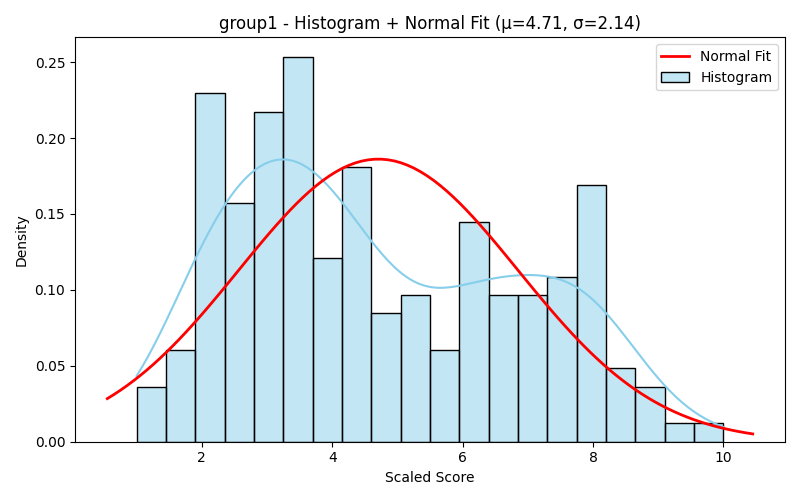
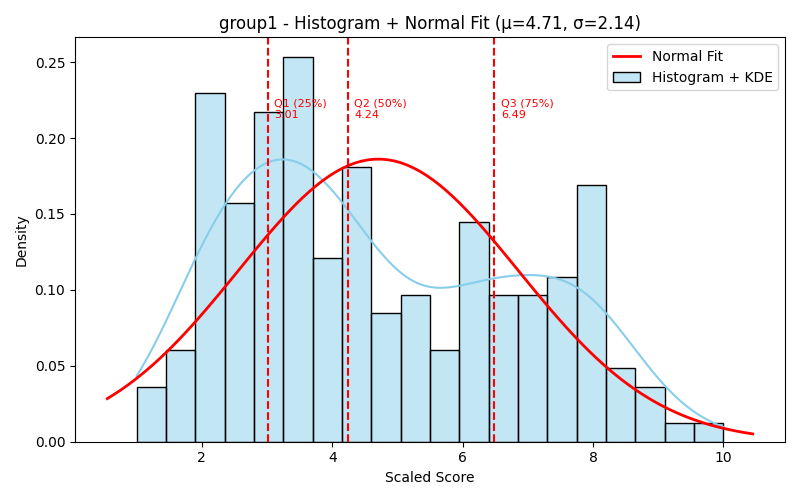
Add baseline comparison and overlay plots for AI Agent scores
Introduces scripts and outputs for comparing AI Agent scaled scores to Ratio 46 baseline across groups. Adds new CSVs with country-level zone assignments and baseline comparisons, summary tables for zone means, and overlay histogram plots with quartile regions. Updates visualization scripts to annotate histograms with quartile lines and labels for both AI Agent and Ratio 46 groups.

diff --git a/scripts/final/compare/compare_with_baseline.py b/scripts/final/compare/compare_with_baseline.py
@@ -1,0 +1,158 @@
+import pandas as pd
+import numpy as np
+import os
+import seaborn as sns
+from matplotlib import pyplot as plt
+from scipy.stats import norm
+
+# Đường dẫn đến file
+ratio_46_files = {
+    "group1": "/Users/minhtan/Documents/GitHub/SEBL-2025/data/final/ratio_46/scaled_score_for_4_part_ratio_country_group1.csv",
+    "group2": "/Users/minhtan/Documents/GitHub/SEBL-2025/data/final/ratio_46/scaled_score_for_4_part_ratio_country_group2.csv",
+    "group3": "/Users/minhtan/Documents/GitHub/SEBL-2025/data/final/ratio_46/scaled_score_for_4_part_ratio_country_group3.csv",
+    "group4": "/Users/minhtan/Documents/GitHub/SEBL-2025/data/final/ratio_46/scaled_score_for_4_part_ratio_country_group4.csv"
+}
+
+ai_agent_files = {
+    "group1": "/Users/minhtan/Documents/GitHub/SEBL-2025/data/final/ai_agent/scaled_score_for_6_part_ratio_country_group1.csv",
+    "group2": "/Users/minhtan/Documents/GitHub/SEBL-2025/data/final/ai_agent/scaled_score_for_6_part_ratio_country_group2.csv",
+    "group3": "/Users/minhtan/Documents/GitHub/SEBL-2025/data/final/ai_agent/scaled_score_for_6_part_ratio_country_group3.csv",
+    "group4": "/Users/minhtan/Documents/GitHub/SEBL-2025/data/final/ai_agent/scaled_score_for_6_part_ratio_country_group4.csv"
+}
+
+# Thư mục lưu biểu đồ overlay
+plot_dir = "/Users/minhtan/Documents/GitHub/SEBL-2025/output/compare/plots"
+os.makedirs(plot_dir, exist_ok=True)
+
+output_dir = "/Users/minhtan/Documents/GitHub/SEBL-2025/output/compare"
+os.makedirs(output_dir, exist_ok=True)
+
+# -----------------------------
+# Vẽ overlay từng group (hist + 2 đường + vùng bóng + quartiles + so sánh vùng)
+# -----------------------------
+for group in ratio_46_files.keys():
+    path_ratio = ratio_46_files[group]
+    path_ai = ai_agent_files[group]
+
+    if not os.path.exists(path_ratio) or not os.path.exists(path_ai):
+        print(f"[SKIP] Không tìm thấy dữ liệu cho {group}")
+        continue
+
+    df_ratio = pd.read_csv(path_ratio)
+    df_ai = pd.read_csv(path_ai)
+
+    if "scaled_score" not in df_ratio.columns or "scaled_score" not in df_ai.columns:
+        print(f"[SKIP] Thiếu cột scaled_score ở {group}")
+        continue
+
+    # Fit các phân phối chuẩn
+    mu_ai, std_ai = norm.fit(df_ai['scaled_score'])
+    mu_ratio, std_ratio = norm.fit(df_ratio['scaled_score'])
+
+    # Tạo trục x và các phân phối
+    x = np.linspace(0, 10, 500)
+    p_ai = norm.pdf(x, mu_ai, std_ai)
+    p_ratio = norm.pdf(x, mu_ratio, std_ratio)
+
+    # Các mốc phần tư từ RATIO_46 (baseline)
+    desc = df_ratio['scaled_score'].describe()
+    q25, q50, q75 = desc['25%'], desc['50%'], desc['75%']
+
+    # Phân vùng cho từng điểm
+    def get_zone(val):
+        if val < q25:
+            return "0-Q1"
+        elif val < q50:
+            return "Q1-Q2"
+        elif val < q75:
+            return "Q2-Q3"
+        else:
+            return "Q3-10"
+
+    df_ratio['zone'] = df_ratio['scaled_score'].apply(get_zone)
+    df_ai['zone'] = df_ai['scaled_score'].apply(get_zone)
+
+    # -----------------------------
+    # Gán vùng phân vị cho từng quốc gia trong AI Agent theo baseline
+    # -----------------------------
+    if 'splits' in df_ai.columns:
+        df_ai_filtered = df_ai[df_ai['splits'] == 6].copy()
+    else:
+        print(f"[WARNING] Không tìm thấy cột 'splits' trong AI Agent {group}, dùng toàn bộ.")
+        df_ai_filtered = df_ai.copy()
+
+    df_country_zone = df_ai_filtered[['country_code', 'scaled_score']].copy()
+    df_country_zone['zone'] = df_country_zone['scaled_score'].apply(get_zone)
+
+    # Xoá trùng lặp country_code nếu có
+    df_country_zone = df_country_zone.drop_duplicates(subset=['country_code'])
+
+    # Thêm cột baseline_mean_zone và position_vs_baseline cho từng quốc gia
+    zone_means = df_ratio.groupby('zone')['scaled_score'].mean().to_dict()
+
+    df_country_zone['baseline_mean_zone'] = df_country_zone['zone'].map(zone_means)
+    df_country_zone['position_vs_baseline'] = df_country_zone.apply(
+        lambda row: 'above' if row['scaled_score'] > row['baseline_mean_zone'] else 'below',
+        axis=1
+    )
+
+    # Lưu vào file CSV
+    df_country_zone.to_csv(os.path.join(output_dir, f"ai_agent_country_zone_{group}.csv"), index=False)
+    print(f"[OK] Đã lưu vùng và so sánh baseline của từng quốc gia AI Agent cho {group}")
+
+
+    df_country_zone.to_csv(os.path.join(output_dir, f"ai_agent_country_zone_{group}.csv"), index=False)
+    print(f"[OK] Đã lưu vùng của từng quốc gia AI Agent cho {group}")
+
+    # Tính chênh lệch trung bình giữa các vùng
+    comparison = []
+    for zone in ['0-Q1', 'Q1-Q2', 'Q2-Q3', 'Q3-10']:
+        mean_ratio = df_ratio[df_ratio['zone'] == zone]['scaled_score'].mean()
+        mean_ai = df_ai[df_ai['zone'] == zone]['scaled_score'].mean()
+        diff = mean_ai - mean_ratio
+        comparison.append((zone, mean_ratio, mean_ai, diff))
+
+    print(f"\n--- So sánh theo vùng cho {group} ---")
+    for zone, r, a, d in comparison:
+        print(f"{zone}: Ratio46 = {r:.2f}, AI Agent = {a:.2f} → Lệch = {d:.2f}")
+
+    # Vẽ biểu đồ
+    plt.figure(figsize=(10, 6))
+
+    # Histogram của baseline
+    sns.histplot(df_ratio['scaled_score'], kde=False, stat="density", bins=20, color='lightgray', label='Ratio 46 Histogram')
+
+    # Fitted curves
+    plt.plot(x, p_ai, 'r', linewidth=2, label=f'AI Agent Fit (μ={mu_ai:.2f}, σ={std_ai:.2f})')
+    plt.plot(x, p_ratio, 'b--', linewidth=2, label=f'Ratio 46 Fit (μ={mu_ratio:.2f}, σ={std_ratio:.2f})')
+
+    # Vùng bóng giữa 2 đường
+    plt.fill_between(x, np.minimum(p_ai, p_ratio), np.maximum(p_ai, p_ratio), color='orange', alpha=0.3, label='Difference Area')
+
+    # Tô màu vùng phần tư
+    plt.axvspan(0, q25, color='cyan', alpha=0.1, label='0–Q1')
+    plt.axvspan(q25, q50, color='yellow', alpha=0.2, label='Q1–Q2')
+    plt.axvspan(q50, q75, color='green', alpha=0.2, label='Q2–Q3')
+    plt.axvspan(q75, 10, color='purple', alpha=0.1, label='Q3–10')
+
+    # Các đường dọc và chú thích phần tư
+    for q, label, ypos in zip([q25, q50, q75], ['Q1 (25%)', 'Q2 (50%)', 'Q3 (75%)'], [0.9, 0.85, 0.8]):
+        plt.axvline(q, color='red', linestyle='--', linewidth=1.2)
+        plt.text(q + 0.05, plt.ylim()[1] * ypos, f'{label}\n{q:.2f}', color='red', fontsize=9)
+
+    # Labels & legend
+    plt.title(f"Overlay Histogram with Quartiles - {group}")
+    plt.xlabel("Scaled Score")
+    plt.ylabel("Density")
+    plt.legend(loc='upper right')
+    plt.tight_layout()
+    plt.savefig(os.path.join(plot_dir, f"overlay_hist_{group}.png"))
+    plt.close()
+
+    print(f"[OK] Đã lưu biểu đồ overlay với phần tư cho {group}")
+
+    # Lưu bảng so sánh ra CSV
+    df_comp = pd.DataFrame(comparison, columns=["Zone", "Mean_Ratio46", "Mean_AI_Agent", "Difference"])
+    df_comp.to_csv(os.path.join(output_dir, f"comparison_zones_{group}.csv"), index=False)
+
+    print(f"[OK] Đã lưu bảng so sánh vùng cho {group}")

diff --git a/scripts/final/ratio_46/visualize_scaled_score_for_4_part_ratio_country.py b/scripts/final/ratio_46/visualize_scaled_score_for_4_part_ratio_country.py
@@ -40,16 +40,30 @@ for group, path in csv_files.items():
 
     desc.to_csv(os.path.join(output_stats_dir, f"ratio_46_{group}_describe.csv"), header=True)
 
-    # Biểu đồ histogram + fitted normal
+    # Các mốc phần tư
+    q25 = desc["25%"]
+    q50 = desc["50%"]
+    q75 = desc["75%"]
+
+    # Biểu đồ histogram + KDE + Fit đường chuẩn
     plt.figure(figsize=(8, 5))
-    sns.histplot(df['scaled_score'], kde=True, stat="density", bins=20, color='skyblue', label='Histogram')
+    sns.histplot(df['scaled_score'], kde=True, stat="density", bins=20, color='skyblue', label='Histogram + KDE')
+
+    # Fit và vẽ đường chuẩn
     mu, std = norm.fit(df['scaled_score'])
     xmin, xmax = plt.xlim()
     x = np.linspace(xmin, xmax, 100)
     p = norm.pdf(x, mu, std)
     plt.plot(x, p, 'r', linewidth=2, label='Normal Fit')
+
+    # Thêm các đường đứng tại các mốc 25%, 50%, 75%
+    for quantile, label in zip([q25, q50, q75], ["Q1 (25%)", "Q2 (50%)", "Q3 (75%)"]):
+        plt.axvline(quantile, color='red', linestyle='--', linewidth=1.5)
+        plt.text(quantile + 0.1, plt.ylim()[1] * 0.8, f'{label}\n{quantile:.2f}', color='red', fontsize=8)
+
     plt.title(f"{group} - Histogram + Normal Fit (μ={mu:.2f}, σ={std:.2f})")
     plt.xlabel("Scaled Score")
+    plt.ylabel("Density")
     plt.legend()
     plt.tight_layout()
     plt.savefig(os.path.join(output_plot_dir, f"ratio_46_{group}_hist.png"))
@@ -62,7 +76,7 @@ for group, path in csv_files.items():
     plt.savefig(os.path.join(output_plot_dir, f"ratio_46_{group}_qq.png"))
     plt.close()
 
-    # Test phân phối chuẩn
+    # Kiểm định phân phối chuẩn
     stat1, p1 = shapiro(df['scaled_score'])
     stat2, p2 = normaltest(df['scaled_score'])
 
@@ -73,16 +87,16 @@ for group, path in csv_files.items():
     normal_msg = "Có thể giả định phân phối chuẩn." if is_normal else "KHÔNG tuân theo phân phối chuẩn."
     print(normal_msg)
 
-    # Ghi kết quả kiểm định ra dict
+    # Ghi kết quả kiểm định
     summary_stats.append({
         "group": group,
         "count": desc["count"],
         "mean": desc["mean"],
         "std": desc["std"],
         "min": desc["min"],
-        "25%": desc["25%"],
-        "50%": desc["50%"],
-        "75%": desc["75%"],
+        "25%": q25,
+        "50%": q50,
+        "75%": q75,
         "max": desc["max"],
         "shapiro_stat": stat1,
         "shapiro_p": p1,
@@ -91,8 +105,9 @@ for group, path in csv_files.items():
         "is_normal": is_normal
     })
 
-# Lưu bảng tổng hợp tất cả nhóm
+# Tổng hợp tất cả nhóm
 summary_df = pd.DataFrame(summary_stats)
 summary_df.to_csv(os.path.join(output_stats_dir, "ratio_46_summary_all_groups.csv"), index=False)
 
 print(f"\nĐã lưu tất cả thống kê mô tả và kiểm định vào thư mục: {output_stats_dir}")
+print(f"Biểu đồ đã được lưu trong: {output_plot_dir}")

diff --git a/scripts/final/ai_agent/visualize_ai_agent_by_group.py b/scripts/final/ai_agent/visualize_ai_agent_by_group.py
@@ -40,16 +40,30 @@ for group, path in csv_files.items():
 
     desc.to_csv(os.path.join(output_stats_dir, f"ai_agent_by_group_{group}_describe.csv"), header=True)
 
-    # Biểu đồ histogram + fitted normal
+    # Các mốc phần tư
+    q25 = desc["25%"]
+    q50 = desc["50%"]
+    q75 = desc["75%"]
+
+    # Biểu đồ histogram + KDE + Fit normal
     plt.figure(figsize=(8, 5))
-    sns.histplot(df['scaled_score'], kde=True, stat="density", bins=20, color='skyblue', label='Histogram')
+    sns.histplot(df['scaled_score'], kde=True, stat="density", bins=20, color='skyblue', label='Histogram + KDE')
+
+    # Fit đường chuẩn
     mu, std = norm.fit(df['scaled_score'])
     xmin, xmax = plt.xlim()
     x = np.linspace(xmin, xmax, 100)
     p = norm.pdf(x, mu, std)
     plt.plot(x, p, 'r', linewidth=2, label='Normal Fit')
+
+    # Thêm các đường thẳng đứng tại Q1, Q2, Q3
+    for q, label in zip([q25, q50, q75], ["Q1 (25%)", "Q2 (50%)", "Q3 (75%)"]):
+        plt.axvline(q, color='red', linestyle='--', linewidth=1.5)
+        plt.text(q + 0.1, plt.ylim()[1] * 0.8, f'{label}\n{q:.2f}', color='red', fontsize=8)
+
     plt.title(f"{group} - Histogram + Normal Fit (μ={mu:.2f}, σ={std:.2f})")
     plt.xlabel("Scaled Score")
+    plt.ylabel("Density")
     plt.legend()
     plt.tight_layout()
     plt.savefig(os.path.join(output_plot_dir, f"ai_agent_by_group_{group}_hist.png"))
@@ -62,7 +76,7 @@ for group, path in csv_files.items():
     plt.savefig(os.path.join(output_plot_dir, f"ai_agent_by_group_{group}_qq.png"))
     plt.close()
 
-    # Test phân phối chuẩn
+    # Kiểm định phân phối chuẩn
     stat1, p1 = shapiro(df['scaled_score'])
     stat2, p2 = normaltest(df['scaled_score'])
 
@@ -73,16 +87,16 @@ for group, path in csv_files.items():
     normal_msg = "Có thể giả định phân phối chuẩn." if is_normal else "KHÔNG tuân theo phân phối chuẩn."
     print(normal_msg)
 
-    # Ghi kết quả kiểm định ra dict
+    # Ghi kết quả kiểm định
     summary_stats.append({
         "group": group,
         "count": desc["count"],
         "mean": desc["mean"],
         "std": desc["std"],
         "min": desc["min"],
-        "25%": desc["25%"],
-        "50%": desc["50%"],
-        "75%": desc["75%"],
+        "25%": q25,
+        "50%": q50,
+        "75%": q75,
         "max": desc["max"],
         "shapiro_stat": stat1,
         "shapiro_p": p1,
@@ -91,8 +105,9 @@ for group, path in csv_files.items():
         "is_normal": is_normal
     })
 
-# Lưu bảng tổng hợp tất cả nhóm
+# Tổng hợp các nhóm
 summary_df = pd.DataFrame(summary_stats)
 summary_df.to_csv(os.path.join(output_stats_dir, "ai_agent_by_group_summary_all_groups.csv"), index=False)
 
 print(f"\nĐã lưu tất cả thống kê mô tả và kiểm định vào thư mục: {output_stats_dir}")
+print(f"Biểu đồ đã được lưu trong: {output_plot_dir}")
